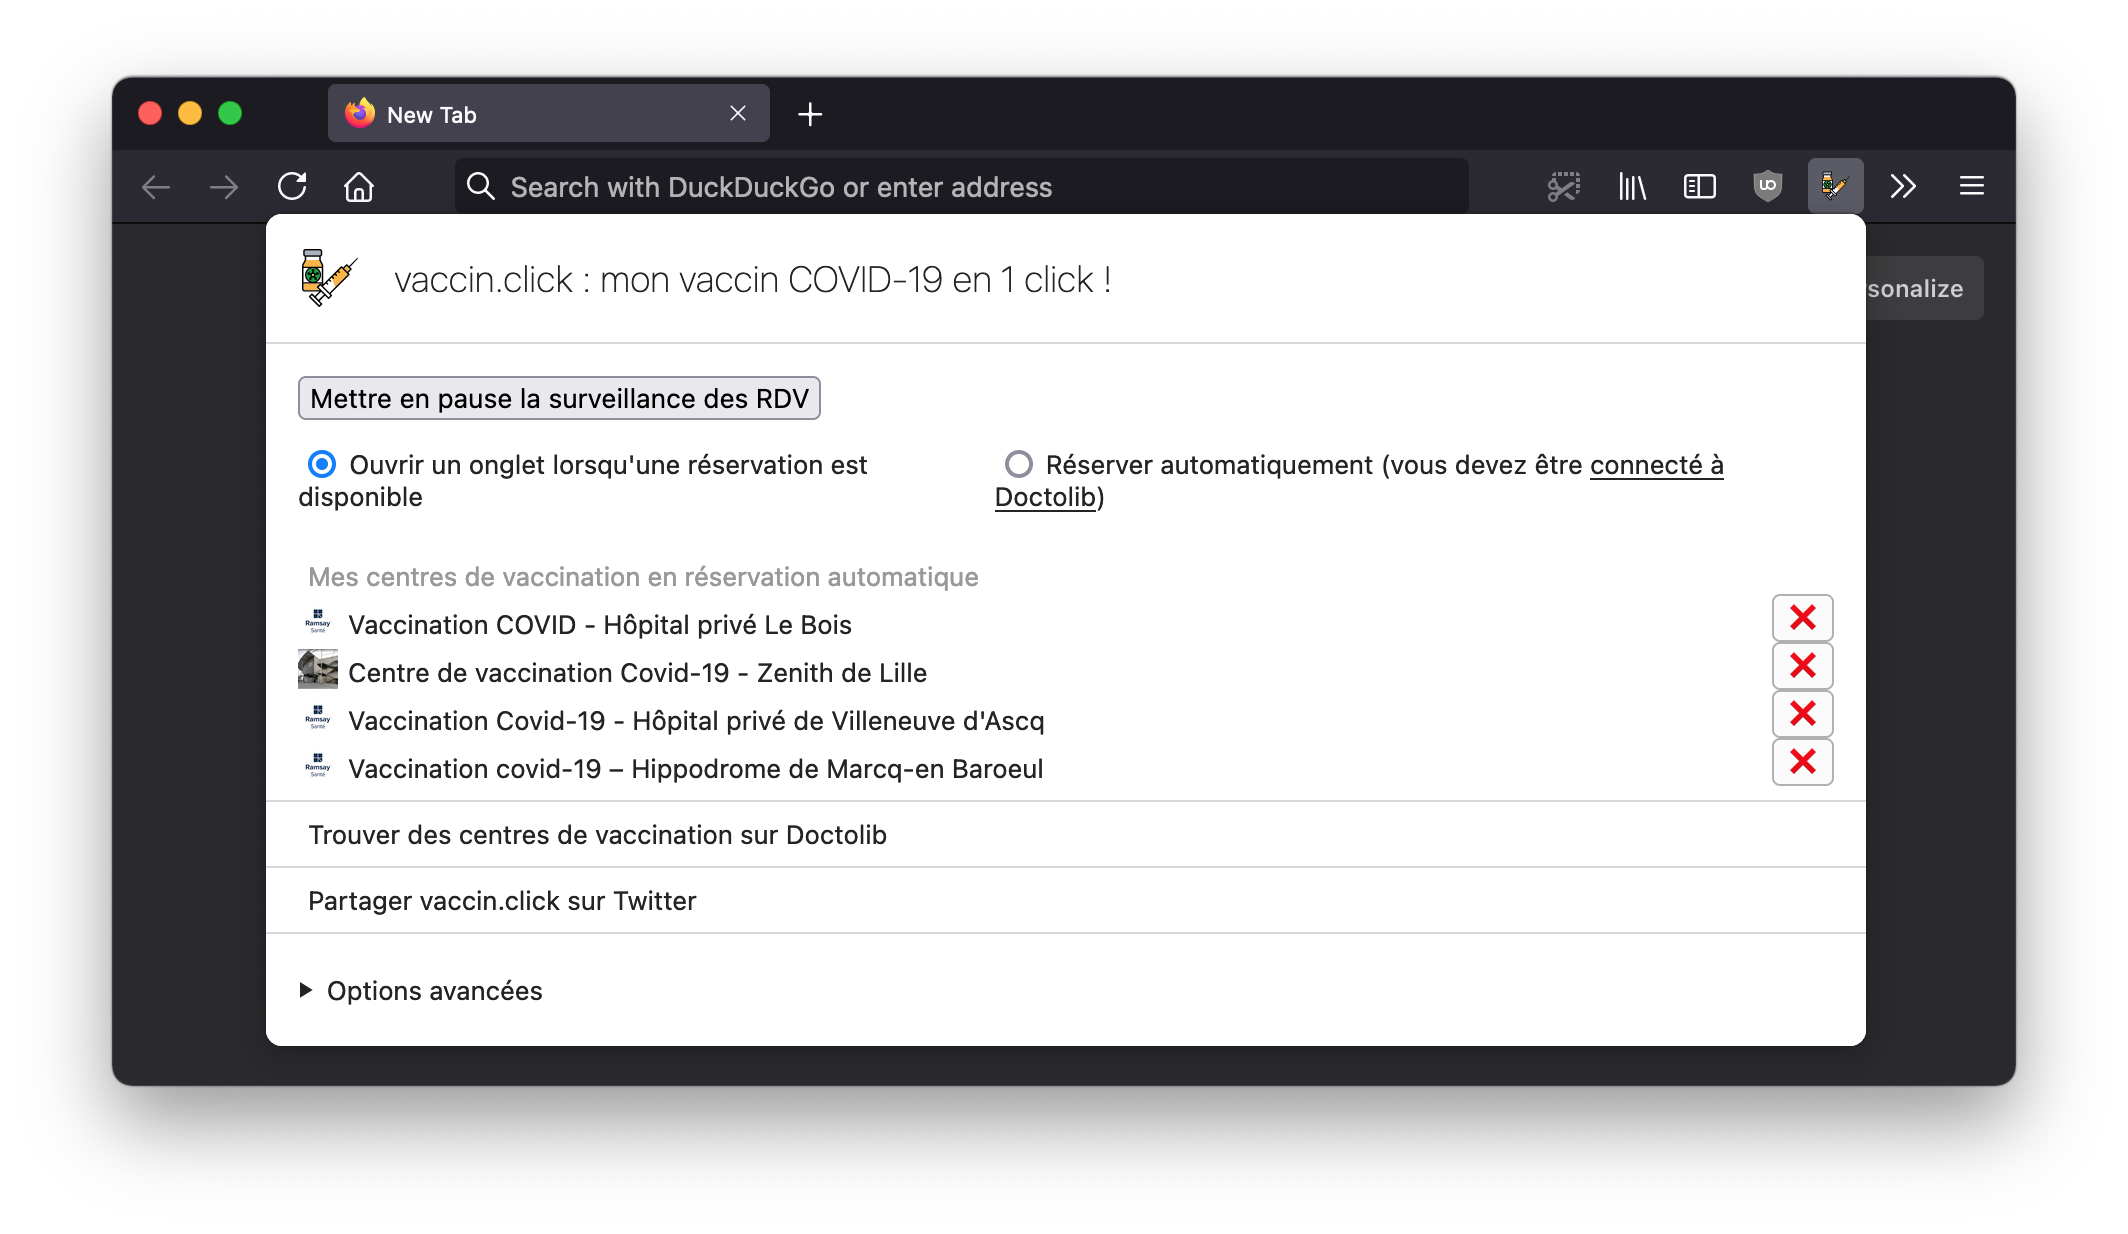
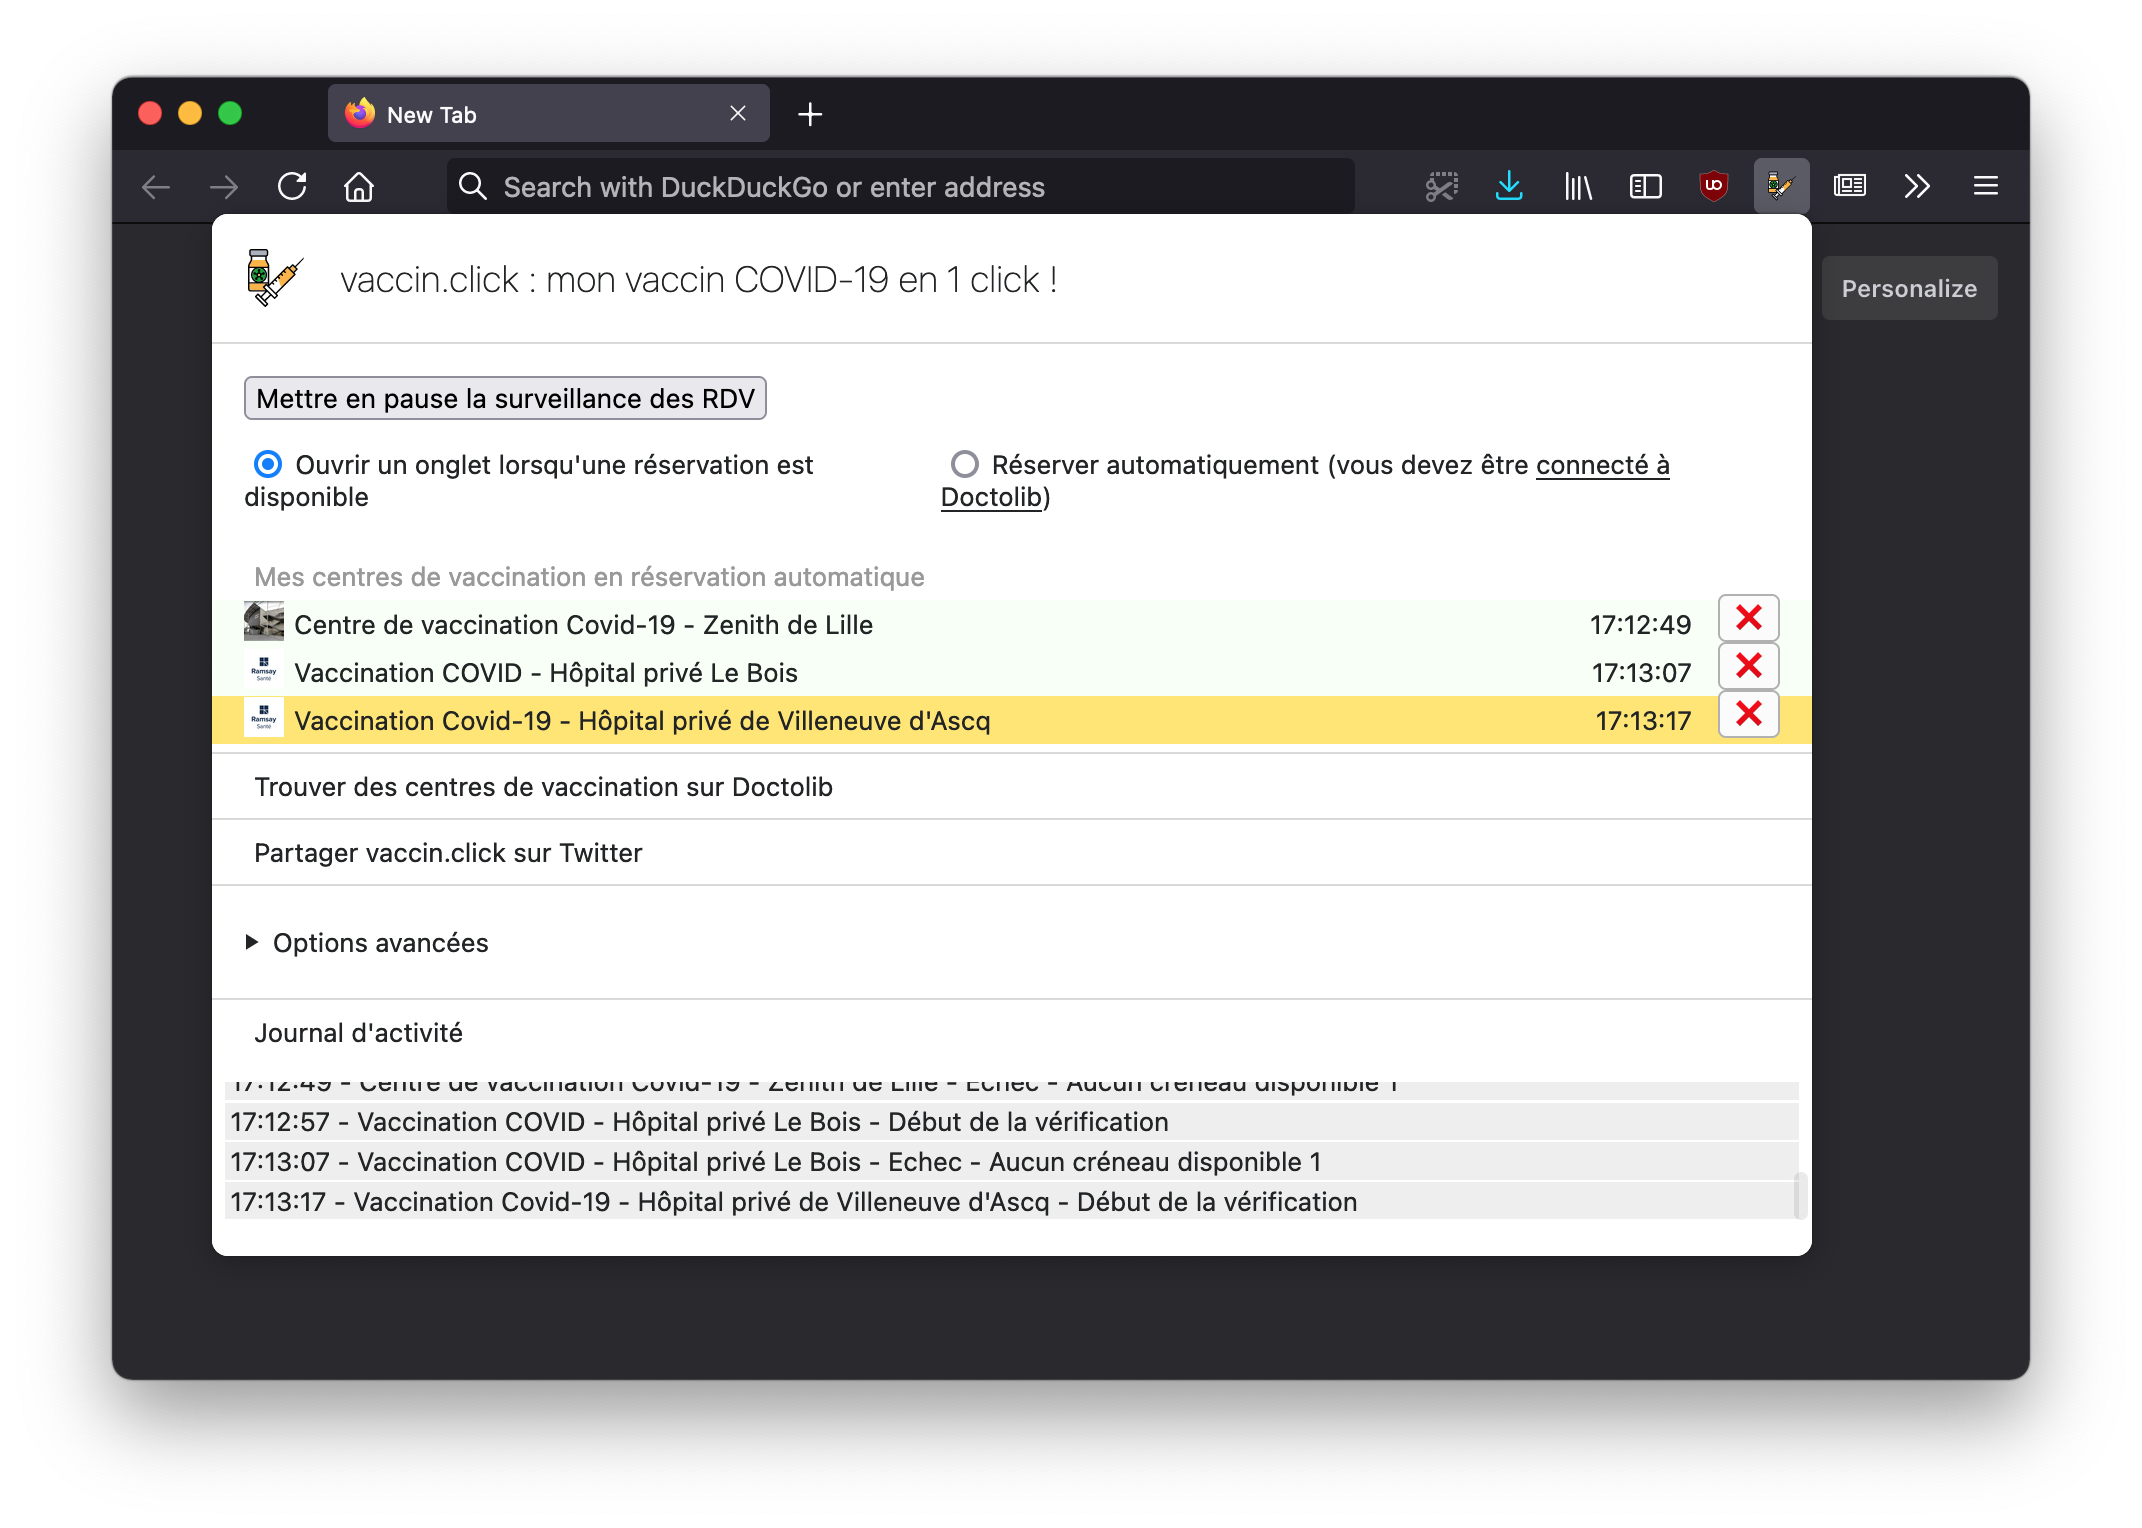
docs: mise à jour des screenshots

Changed region(s): [[0.031, 0.0308, 0.9615, 0.9238], [0.4342, 0.2771, 0.7754, 0.3387]]

diff --git a/index.md b/index.md
@@ -4,7 +4,7 @@ La vaccination contre le COVID-19 est désormais ouverte à toutes les personnes
 
 *vaccin.click* vous permet de lister les centres de vaccination dans lesquels vous pouvez vous rendre et de réserver automatiquement dès qu'un créneau est disponible dans les 24 heures !
 
-[![Capture d'écran](screenshot.png)](screenshot.png)
+[![Popup](screenshot.png)](screenshot.png)
 
 ### Installer vaccin.click
 
@@ -23,6 +23,8 @@ La vaccination contre le COVID-19 est désormais ouverte à toutes les personnes
 
 L'extension va alors automatiquement vérifier les disponibilités de chaque centre toutes les 3 minutes.
 Dès qu'une disponibilité est trouvée, une notification est affichée et l'onglet du centre de vaccination s'ouvre pour vous permettre de finaliser la prise de rendez-vous.
+
+[![Notification](notification.png)](notification.png)
 
 Si vous avez activé le mode automatique, une notification s'affiche et un onglet s'ouvre pour vous prévenir que le rendez-vous a été pris. Vous recevrez également un mail de Doctolib. Si un problème survient au moment de la réservation automatique, la page s'ouvre pour que vous puissiez finaliser à la main (fonctionnement similaire au mode non-automatique).
 
